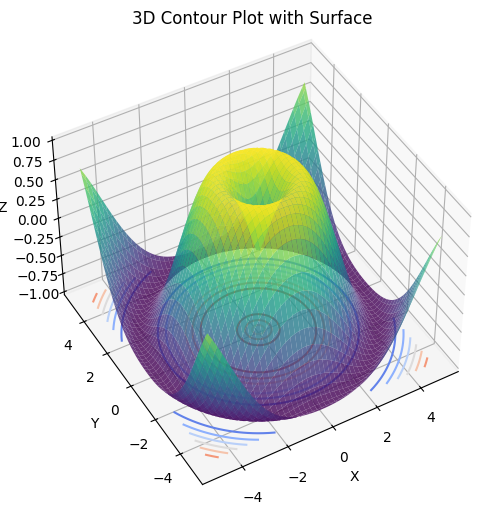
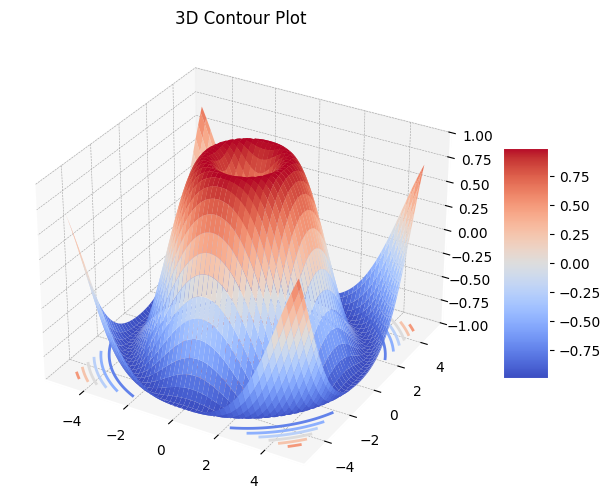
Commit on 2024-09-17 23:56:43

diff --git a/D80_機器學習/92_Matplotlib.md b/D80_機器學習/92_Matplotlib.md
@@ -1775,30 +1775,32 @@ plt.show()
     import matplotlib.pyplot as plt
     from mpl_toolkits.mplot3d import Axes3D
 
-    # 模擬數據
+    # 模擬數據：x 和 y 為平面坐標，z 表示高度（例如地形的高度）
     x = np.linspace(-5, 5, 100)
     y = np.linspace(-5, 5, 100)
     x, y = np.meshgrid(x, y)
+
+    # z 為高度，這裡模擬一個圓形波浪的高度分佈
     z = np.sin(np.sqrt(x**2 + y**2))
 
-    # 創建 3D 圖
-    fig = plt.figure(figsize=(10, 6))
-    ax = fig.add_subplot(111, projection='3d')
+    # 創建 3D 圖表
+    fig = plt.figure(figsize=(8, 6))
+    ax = fig.add_subplot(111, projection="3d")
 
-    # 繪製 3D 曲面圖
-    ax.plot_surface(x, y, z, cmap='viridis', edgecolor='none', alpha=0.8)
+    # 繪製 3D 曲面圖，使用 'coolwarm' 配色方案
+    surf = ax.plot_surface(x, y, z, cmap="coolwarm", edgecolor="none")
 
-    # 在底部繪製 2D 等高線圖
-    ax.contour(x, y, z, zdir='z', offset=-1, cmap='coolwarm')
+    # 添加等高線
+    ax.contour(x, y, z, zdir="z", offset=-1, cmap="coolwarm")
 
-    # 設定視角
-    ax.view_init(45, 240)
+    # 設置 z 軸的範圍
+    ax.set_zlim(-1, 1)
 
-    # 標籤與標題
-    ax.set_xlabel('X')
-    ax.set_ylabel('Y')
-    ax.set_zlabel('Z')
-    ax.set_title('3D Contour Plot with Surface')
+    # 添加顏色條
+    fig.colorbar(surf, ax=ax, shrink=0.5, aspect=5)
+
+    # 添加標題
+    ax.set_title("3D Contour Plot")
 
     # 顯示圖表
     plt.show()
